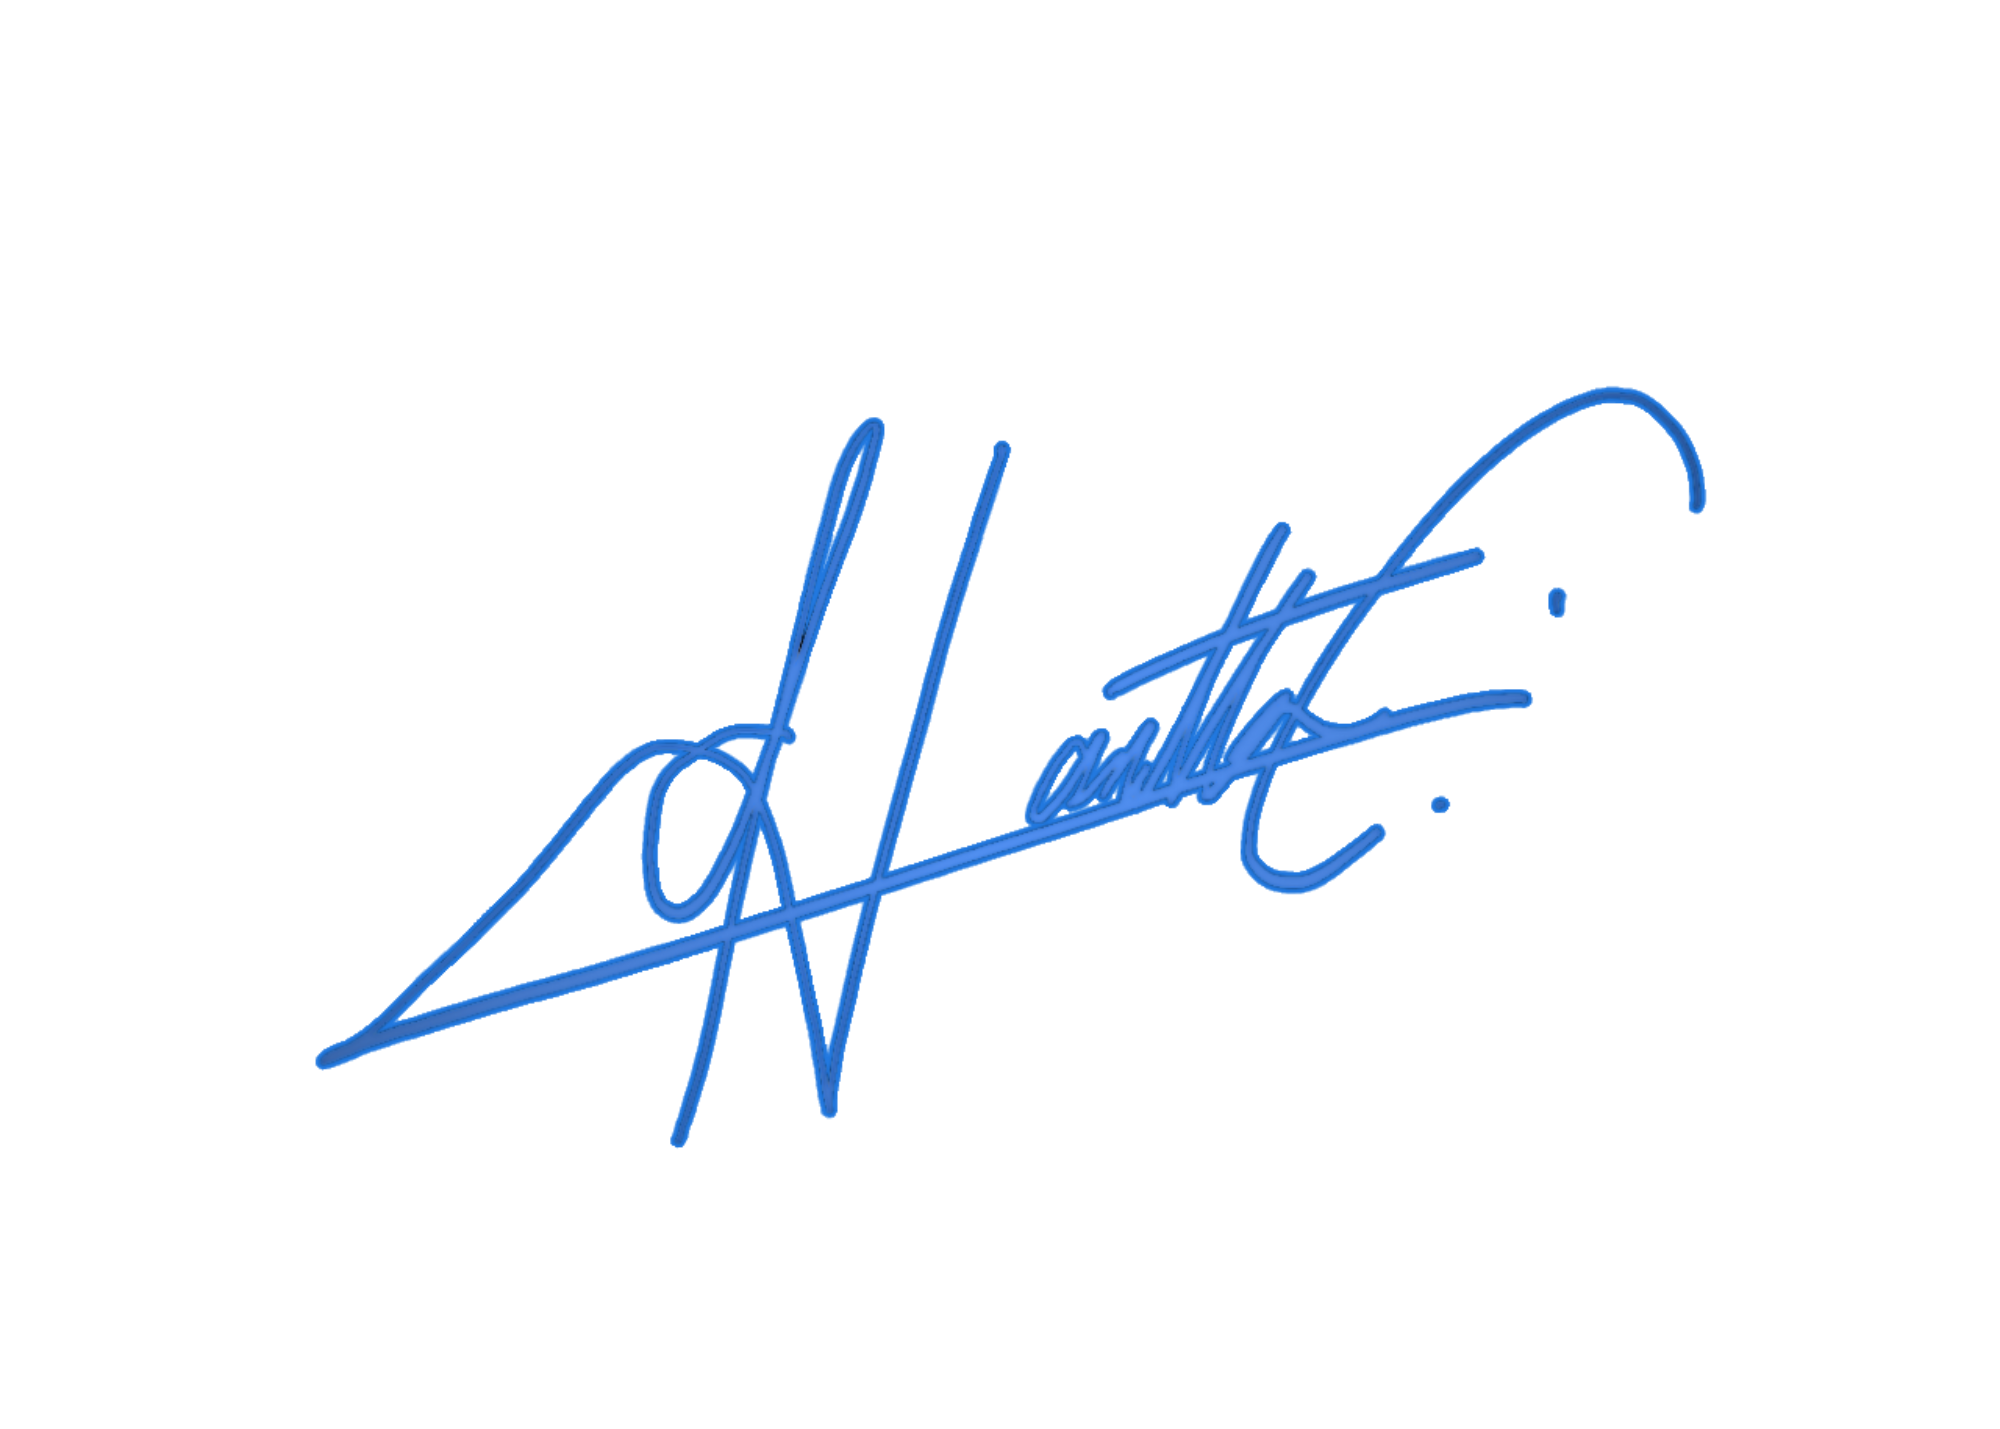
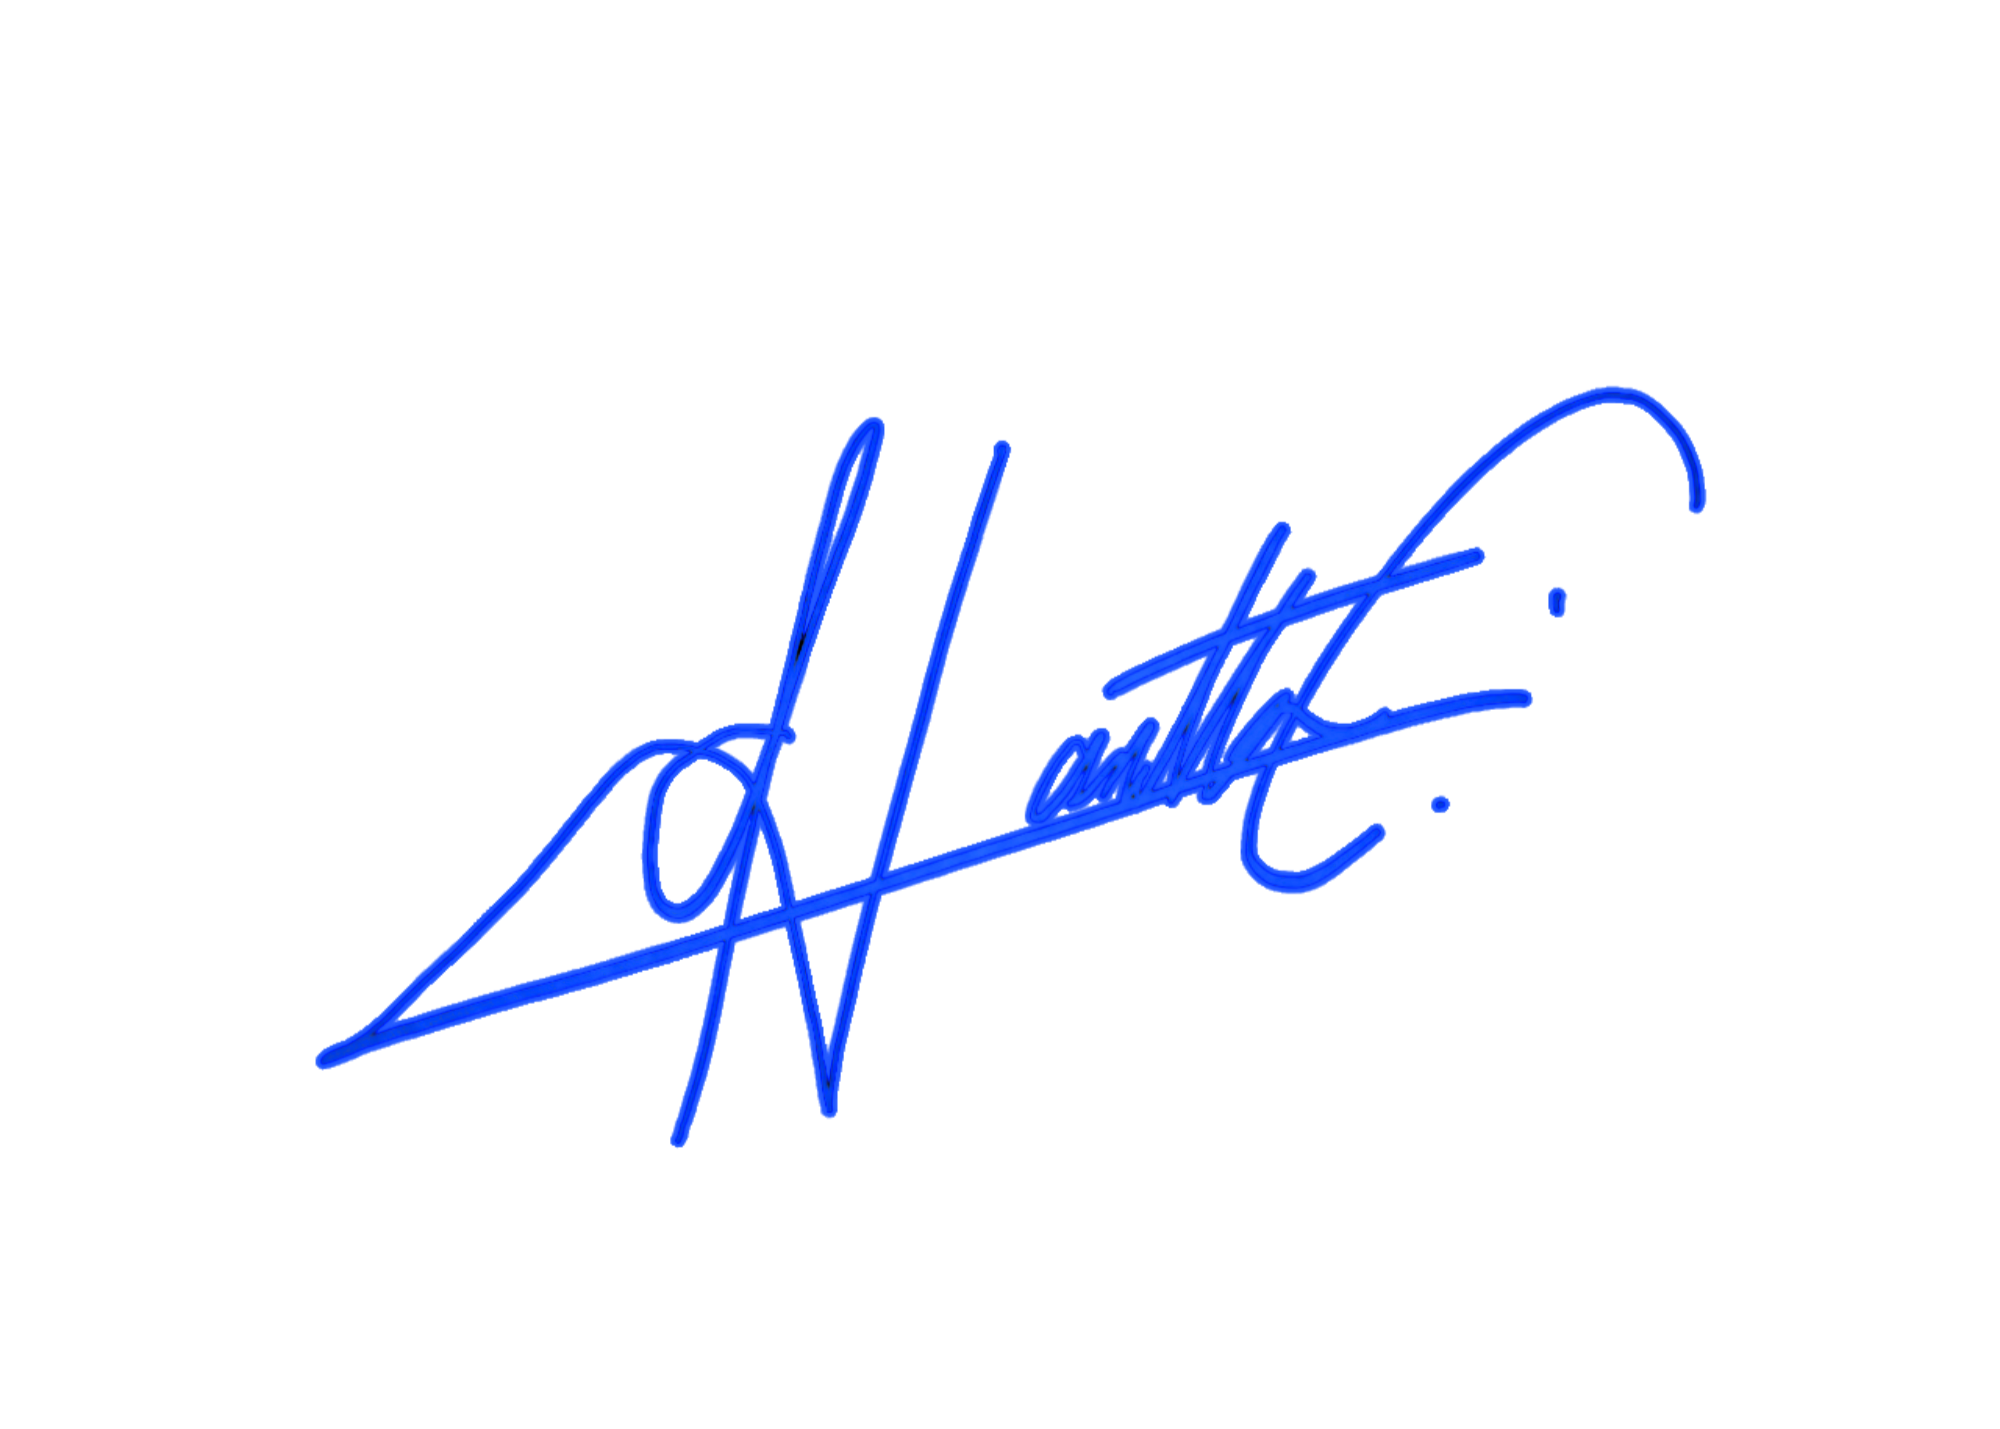
colores en firma

diff --git a/resources/views/imprimir/showanverso.blade.php b/resources/views/imprimir/showanverso.blade.php
@@ -99,7 +99,6 @@
               <p style="margin-bottom: -0.5rem; line-height: 11px">El inversionista confirma que cuenta con todas las
                   autorizaciones necesarias para celebrar el presente acuerdo y manifiesta que no le genera incumplimiento
                   a obligaciones previamente contraídas con terceros.
-
               </p>
           </li>
       </ol>
@@ -168,14 +167,14 @@
         
         if (sizeof($beneficiarios) > 0) {
           $sustituciones[8] = "<div class='contenedor_beneficiarios'>
-                  <div class='contenedor_beneficiarios_izquierda'>                  
+                  <div class='contenedor_beneficiarios_izquierda'>
                       <ol>
-                        <p class='contrato_parrafo_li text-center'>Nombre</p>";                    
+                        <p class='contrato_parrafo_li text-center'>Nombre</p>";
                           foreach($beneficiarios as $beneficiario){
                             if ($beneficiario->porcentaje > 0){
                               $sustituciones[8].="<li>$beneficiario->nombre</li>";
                             }
-                          }                    
+                          }
           $sustituciones[8].="</ol>
                   </div>
                   <div class='contenedor_beneficiarios_derecha'>
@@ -208,7 +207,7 @@
       </p>
     @endforeach
 
-    @if ($contratos[0]->tabla == true)      
+    @if ($contratos[0]->tabla == true)
       @if ($contratos[0]->tipocontrato == 'Rendimiento mensual')
         <div class="contenedor_tabla">
           <table class="tabla_reverso table table-sm">
@@ -223,7 +222,7 @@
               @php
                   $cobrado_sum = 0;
               @endphp
-              @foreach ($amortizaciones as $amortizacion)    
+              @foreach ($amortizaciones as $amortizacion)
               <tr>
                 <td>{{date("d/m/Y", strtotime($amortizacion->fecha))}}</td>
                 <td style="background: #00b0f02f !important">$@convert($amortizacion->monto)</td>
@@ -264,7 +263,7 @@
               <tr>
                 <td>{{date("d/m/Y", strtotime($amortizacion->fecha))}}</td>
                 @php
-                  echo '<td style="background: #00b0f02f !important">$'.number_format($amortizacion->monto, 2).'</td>';                  
+                  echo '<td style="background: #00b0f02f !important">$'.number_format($amortizacion->monto, 2).'</td>';
                   $acumulado += $amortizacion->redito;
                 @endphp
                 <td>$@convert($amortizacion->redito)</td>
@@ -381,7 +380,6 @@
           </div>
       </div>
     </div>
-
   </div>
 
     @if (!empty($holograma))

diff --git a/resources/views/agenda/show.blade.php b/resources/views/agenda/show.blade.php
@@ -105,13 +105,9 @@
                                 <div class="form-floating">
                                     <select name="asignado_a" class="form-control" id="asignadoAInput" required style="text-transform: none !important;">
                                         <option value="" disabled selected>Selecciona..</option>
-                                        {{-- @if (auth()->user()->is_root || auth()->user()->is_admin || auth()->user()->is_procesos || auth()->user()->is_egresos) --}}
                                         @foreach($users as $user)
                                             <option value="{{ $user->id }}"> {{ $user->nombre }} {{ $user->apellido_p }} {{ $user->apellido_m }}</option>
                                         @endforeach                                            
-                                        {{-- @elseif(auth()->user()->is_ps_gold || auth()->user()->is_ps_diamond)
-                                            <option value="{{ auth()->user()->id }}"> {{ auth()->user()->nombre }} {{ auth()->user()->apellido_p }} {{ auth()->user()->apellido_m }}</option>
-                                        @endif --}}
                                     </select>
                                     <label for="asignadoAInput">Asignar a</label>
                                 </div>

diff --git a/app/Http/Controllers/AgendaController.php b/app/Http/Controllers/AgendaController.php
@@ -33,6 +33,7 @@ class AgendaController extends Controller
                 $users = User::where('privilegio', 'root')
                     ->orWhere('privilegio', 'admin')
                     ->orWhere('privilegio', 'procesos')
+                    ->orWhere('privilegio', 'egresos')
                     ->get();
             }elseif(auth()->user()->is_ps_gold || auth()->user()->is_ps_diamond || auth()->user()->is_ps_bronze){
                 $users = User::where('privilegio', 'admin')
